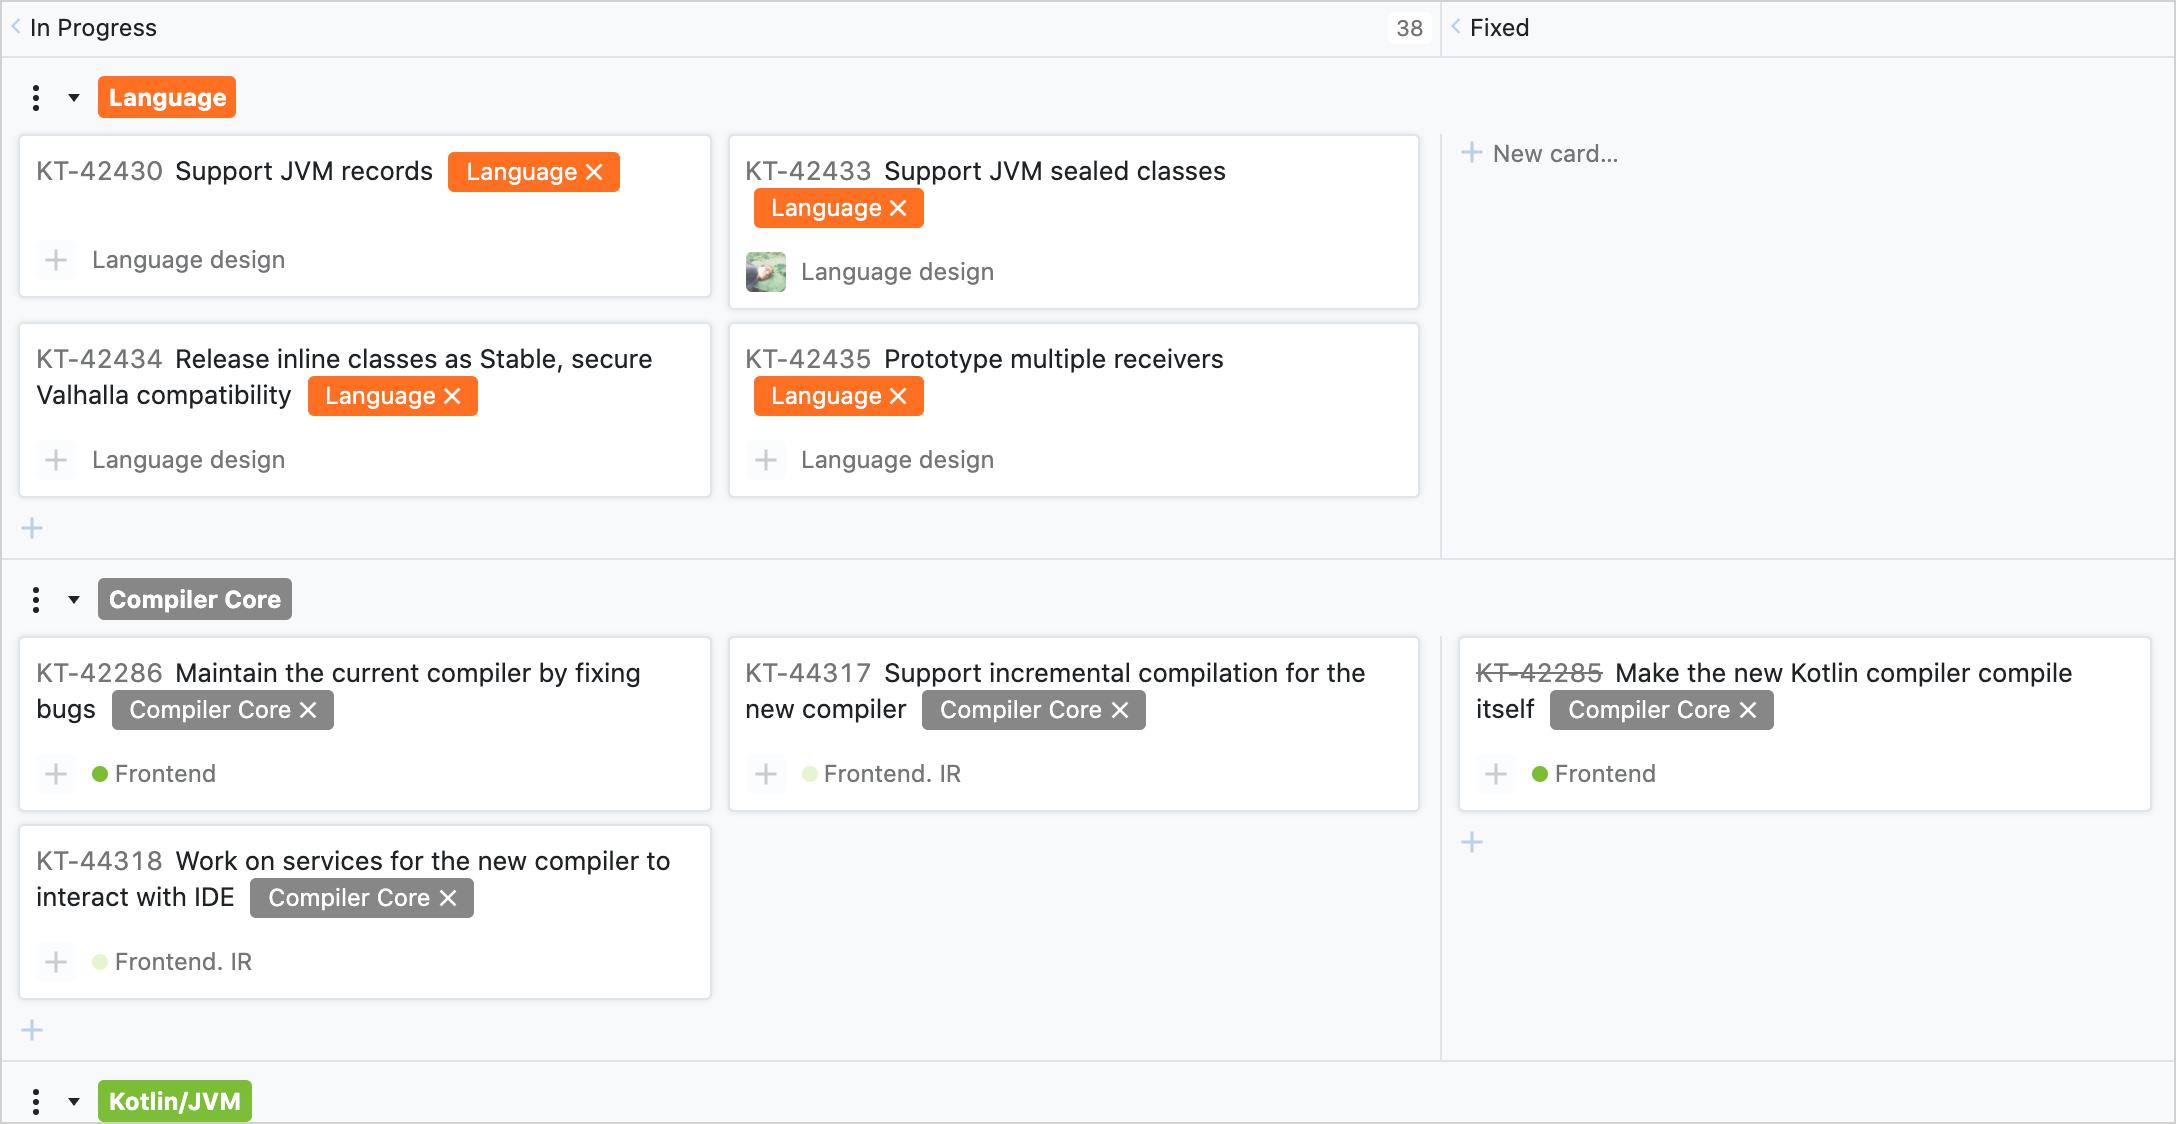
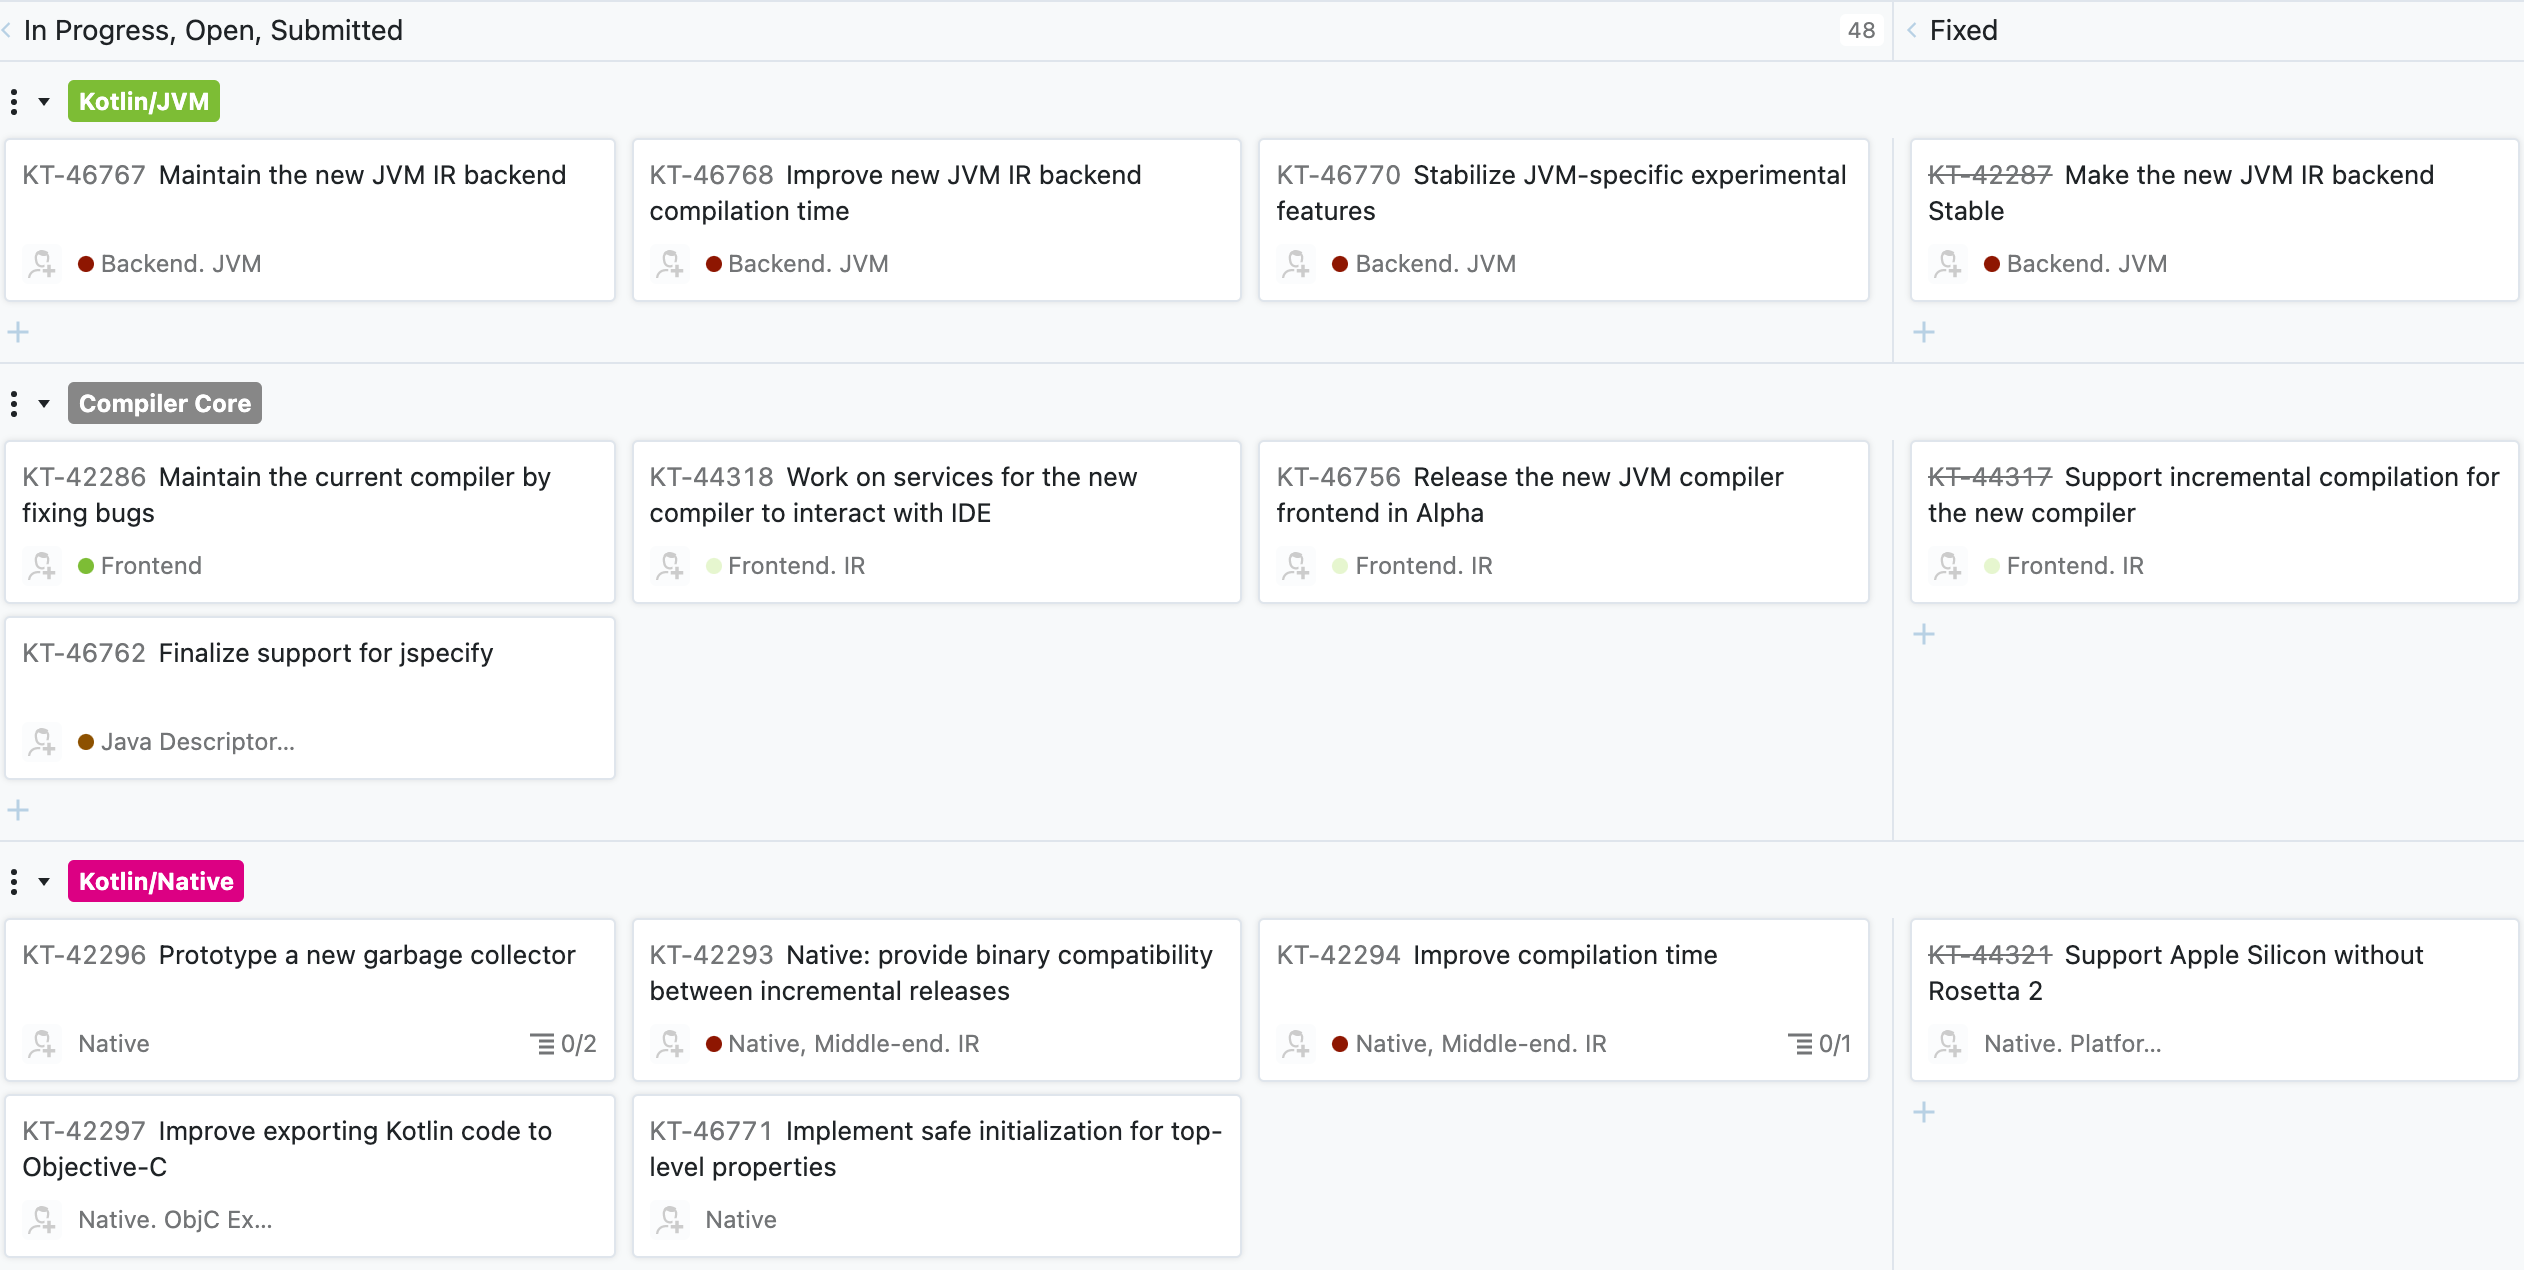
chore: add links new items in YT, update image

diff --git a/docs/topics/roadmap.md b/docs/topics/roadmap.md
@@ -60,7 +60,7 @@ Visit the [roadmap board in our issue tracker ![YouTrack](youtrack-logo.png){wid
         </td>
         <td>
             <ul>
-                <li>⏸ <a href="https://youtrack.jetbrains.com/issue/TODO" target="_blank">Support JVM sealed classes</a></li>
+                <li>⏸ <a href="https://youtrack.jetbrains.com/issue/KT-46778" target="_blank">Support JVM sealed classes</a></li>
             </ul>
         </td>
     </tr>
@@ -68,8 +68,8 @@ Visit the [roadmap board in our issue tracker ![YouTrack](youtrack-logo.png){wid
         <td><strong>Compiler core</strong></td>
         <td>
             <ul>
-                <li><a href="https://youtrack.jetbrains.com/issue/TODO" target="_blank">🆕 Release the new JVM compiler frontend in Alpha</a></li>
-                <li><a href="https://youtrack.jetbrains.com/issue/TODO" target="_blank">🆕 Finalize support for jspecify</a></li>
+                <li><a href="https://youtrack.jetbrains.com/issue/KT-46756" target="_blank">🆕 Release the new JVM compiler frontend in Alpha</a></li>
+                <li><a href="https://youtrack.jetbrains.com/issue/KT-46762" target="_blank">🆕 Finalize support for jspecify</a></li>
                 <li><a href="https://youtrack.jetbrains.com/issue/KT-42286" target="_blank">Maintain the current compiler (bug-fixing only)</a></li>
                 <li><a href="https://youtrack.jetbrains.com/issue/KT-44318" target="_blank">Work on services for the new compiler to interact with IDE</a></li>
             </ul>
@@ -85,9 +85,9 @@ Visit the [roadmap board in our issue tracker ![YouTrack](youtrack-logo.png){wid
         <td><strong>Kotlin/JVM</strong></td>
         <td>
             <ul>
-                <li><a href="https://youtrack.jetbrains.com/issue/TODO" target="_blank">🆕 Maintain the new JVM IR backend</a></li>
-                <li><a href="https://youtrack.jetbrains.com/issue/TODO" target="_blank">🆕 Improve new JVM IR backend compilation time</a></li>
-                <li><a href="https://youtrack.jetbrains.com/issue/TODO" target="_blank">🆕 Stabilize JVM-specific experimental features</a></li>
+                <li><a href="https://youtrack.jetbrains.com/issue/KT-46767" target="_blank">🆕 Maintain the new JVM IR backend</a></li>
+                <li><a href="https://youtrack.jetbrains.com/issue/KT-46768" target="_blank">🆕 Improve new JVM IR backend compilation time</a></li>
+                <li><a href="https://youtrack.jetbrains.com/issue/KT-46770" target="_blank">🆕 Stabilize JVM-specific experimental features</a></li>
             </ul>
          </td>
         <td></td>
@@ -112,7 +112,7 @@ Visit the [roadmap board in our issue tracker ![YouTrack](youtrack-logo.png){wid
         <td><strong>Kotlin/Wasm</strong></td>
         <td>
             <ul>
-                <li><a href="https://youtrack.jetbrains.com/issue/KT-TODO" target="_blank">🆕 Implement an experimental version of Kotlin/Wasm compiler backend</a></li>
+                <li><a href="https://youtrack.jetbrains.com/issue/KT-46773" target="_blank">🆕 Implement an experimental version of Kotlin/Wasm compiler backend</a></li>
             </ul>
          </td>
         <td>Note: Wasm support in <a href="https://kotlinlang.org/docs/reference/native-overview.html" target="_blank">Kotlin/Native</a> (through LLVM) will be deprecated and removed</td>
@@ -121,7 +121,7 @@ Visit the [roadmap board in our issue tracker ![YouTrack](youtrack-logo.png){wid
         <td><strong>Kotlin/Native</strong></td>
         <td>
             <ul>
-                <li><a href="https://youtrack.jetbrains.com/issue/TODO" target="_blank">🆕 Implement safe initialization for top-level properties</a></li>
+                <li><a href="https://youtrack.jetbrains.com/issue/KT-46771" target="_blank">🆕 Implement safe initialization for top-level properties</a></li>
                 <li><a href="https://youtrack.jetbrains.com/issue/KT-42296" target="_blank">Prototype a new garbage collector</a></li>
                 <li><a href="https://youtrack.jetbrains.com/issue/KT-42294" target="_blank">Improve compilation time</a></li>
                 <li><a href="https://youtrack.jetbrains.com/issue/KT-42297" target="_blank">Improve exporting Kotlin code to Objective-C</a></li>
@@ -141,7 +141,7 @@ Visit the [roadmap board in our issue tracker ![YouTrack](youtrack-logo.png){wid
         <td><strong>Kotlin Multiplatform</strong></td>
         <td>
             <ul>
-                <li><a href="https://youtrack.jetbrains.com/issue/TODO" target="_blank">🆕 Support the Apple Silicon target in the Kotlin Multiplatform tooling</a></li>
+                <li><a href="https://youtrack.jetbrains.com/issue/KT-46772" target="_blank">🆕 Support the Apple Silicon target in the Kotlin Multiplatform tooling</a></li>
                 <li><a href="https://youtrack.jetbrains.com/issue/KT-44329" target="_blank">Improve UX of using Native libraries in Kotlin</a></li>
                 <li><a href="https://youtrack.jetbrains.com/issue/KT-42301" target="_blank">Improve dependency management for iOS</a></li>
             </ul>
@@ -161,7 +161,7 @@ Visit the [roadmap board in our issue tracker ![YouTrack](youtrack-logo.png){wid
                 <li><a href="https://youtrack.jetbrains.com/issue/KT-42307" target="_blank">Prototype IDE plugin with the new compiler frontend</a></li>
                 <li><a href="https://youtrack.jetbrains.com/issue/KT-42304" target="_blank">Improve IDE performance</a></li>
                 <li><a href="https://youtrack.jetbrains.com/issue/KT-44330" target="_blank">Improve debugging experience</a></li>
-                <li><a href="https://youtrack.jetbrains.com/issue/TODO" target="_blank">🆕 Improve the New Project wizard</a></li>
+                <li><a href="https://youtrack.jetbrains.com/issue/KT-46787" target="_blank">🆕 Improve the New Project wizard</a></li>
                 <li><a href="https://youtrack.jetbrains.com/issue/KT-42308" target="_blank">Move the Kotlin plugin to the IntelliJ platform development infrastructure</a></li>
             </ul>
          </td>
@@ -178,8 +178,8 @@ Visit the [roadmap board in our issue tracker ![YouTrack](youtrack-logo.png){wid
             <ul>
                 <li><a href="https://youtrack.jetbrains.com/issue/KT-42309" target="_blank">Improve the performance of Gradle incremental compilation</a></li>
                 <li><a href="https://youtrack.jetbrains.com/issue/KT-42311" target="_blank">Decrease time for opening Gradle projects</a></li>
-                <li><a href="https://youtrack.jetbrains.com/issue/TODO" target="_blank">🆕 Improve the quality of Gradle import</a></li>
-                <li><a href="https://youtrack.jetbrains.com/issue/TODO" target="_blank">🆕 Improve user experience with the Kotlin Gradle plugin</a></li>
+                <li><a href="https://youtrack.jetbrains.com/issue/KT-46788" target="_blank">🆕 Improve the quality of Gradle import</a></li>
+                <li><a href="https://youtrack.jetbrains.com/issue/KT-46789" target="_blank">🆕 Improve user experience with the Kotlin Gradle plugin</a></li>
             </ul>
          </td>
         <td>
@@ -192,11 +192,11 @@ Visit the [roadmap board in our issue tracker ![YouTrack](youtrack-logo.png){wid
         <td><strong>Libraries</strong></td>
         <td>
             <ul>
-                <li><a href="https://youtrack.jetbrains.com/issue/TODO" target="_blank">🆕 Improve kotlinx-serialization (release v1.3.0)</a></li>
-                <li><a href="https://youtrack.jetbrains.com/issue/TODO" target="_blank">🆕 Improve kotlinx-coroutines (release v1.6.0)</a></li>
-                <li><a href="https://youtrack.jetbrains.com/issue/TODO" target="_blank">🆕 Stabilize Duration API in the standard library</a></li>
-                <li><a href="https://youtrack.jetbrains.com/issue/TODO" target="_blank">🆕 Get rid of <code>!!</code> for <code>readLine()</code> in the standard library</a></li>
-                <li><a href="https://youtrack.jetbrains.com/issue/TODO" target="_blank">🆕 Stabilize and document atomicfu</a></li>
+                <li><a href="https://youtrack.jetbrains.com/issue/KT-46782" target="_blank">🆕 Improve kotlinx-serialization (release v1.3.0)</a></li>
+                <li><a href="https://youtrack.jetbrains.com/issue/KT-46783" target="_blank">🆕 Improve kotlinx-coroutines (release v1.6.0)</a></li>
+                <li><a href="https://youtrack.jetbrains.com/issue/KT-46784" target="_blank">🆕 Stabilize Duration API in the standard library</a></li>
+                <li><a href="https://youtrack.jetbrains.com/issue/KT-46785" target="_blank">🆕 Get rid of <code>!!</code> for <code>readLine()</code> in the standard library</a></li>
+                <li><a href="https://youtrack.jetbrains.com/issue/KT-46786" target="_blank">🆕 Stabilize and document atomicfu</a></li>
                 <li><a href="https://youtrack.jetbrains.com/issue/KT-42315" target="_blank">Improve kotlinx-datetime library</a></li>
                 <li><a href="https://youtrack.jetbrains.com/issue/KT-42436" target="_blank">Support java.nio.Path extension in the standard library</a></li>
             </ul>
@@ -216,8 +216,8 @@ Visit the [roadmap board in our issue tracker ![YouTrack](youtrack-logo.png){wid
         <td>
             <ul>
                 <li><a href="https://youtrack.jetbrains.com/issue/KT-44339" target="_blank">Make the Kotlin website mobile friendly</a></li>
-                <li><a href="https://youtrack.jetbrains.com/issue/TODO" target="_blank">🆕 Make the UI and navigation consistent</a></li>
-                <li><a href="https://youtrack.jetbrains.com/issue/TODO" target="_blank">🆕 Update community graphic assets to the new Kotlin visual style</a></li>
+                <li><a href="https://youtrack.jetbrains.com/issue/KT-46791" target="_blank">🆕 Make the UI and navigation consistent</a></li>
+                <li><a href="https://youtrack.jetbrains.com/issue/KT-46792" target="_blank">🆕 Update community graphic assets to the new Kotlin visual style</a></li>
                 <li><a href="https://youtrack.jetbrains.com/issue/KT-44338" target="_blank">Revamp Kotlin documentation</a></li>
             </ul>
         </td>
@@ -263,7 +263,7 @@ We've **completed** the following items from the previous roadmap:
 
 We've decided to **postpone** the following items from the previous roadmap:
 
-* ⏸ [Support JVM sealed classes](https://youtrack.jetbrains.com/issue/TODO)
+* ⏸ [Support JVM sealed classes](https://youtrack.jetbrains.com/issue/46778)
 * ⏸ [Improve Kotlin/Native debugging experience](https://youtrack.jetbrains.com/issue/KT-44328)
 
 Other postponed items remain in this state from earlier roadmap versions.
@@ -280,24 +280,24 @@ We've **added** the following items to the roadmap:
 * 🆕 Language: [Allow repeating annotations with runtime retention when compiling under Java 8](https://youtrack.jetbrains.com/issue/KT-12794)
 * 🆕 Language: [Support annotations on class type parameters and generate them for JVM](https://youtrack.jetbrains.com/issue/KT-43714)
 * 🆕 Language: [Improve type inference in corner cases for popular Java APIs](https://youtrack.jetbrains.com/issue/KT-40804)
-* 🆕 Compiler core: [Release the new JVM compiler frontend in Alpha](https://youtrack.jetbrains.com/issue/TODO)
-* 🆕 Compiler core: [Finalize support for jspecify](https://youtrack.jetbrains.com/issue/TODO)
-* 🆕 Kotlin/JVM: [Maintain the new JVM IR backend](https://youtrack.jetbrains.com/issue/TODO)
-* 🆕 Kotlin/JVM: [Improve new JVM IR backend compilation time](https://youtrack.jetbrains.com/issue/TODO)
-* 🆕 Kotlin/JVM: [Stabilize JVM-specific experimental features](https://youtrack.jetbrains.com/issue/TODO)
-* 🆕 Kotlin/Wasm: [Implement an experimental version of Kotlin/Wasm compiler backend](https://youtrack.jetbrains.com/issue/TODO)
-* 🆕 Kotlin/Native: [Implement safe initialization for top-level properties](https://youtrack.jetbrains.com/issue/TODO)
-* 🆕 Multiplatform: [Support the Apple Silicon target in the Kotlin Multiplatform tooling](https://youtrack.jetbrains.com/issue/TODO)
-* 🆕 IDE: [Improve the New Project wizard](https://youtrack.jetbrains.com/issue/TODO)
-* 🆕 Build tools: [Improve the quality of Gradle import](https://youtrack.jetbrains.com/issue/TODO)
-* 🆕 Build tools: [Improve user experience with the Kotlin Gradle plugin](https://youtrack.jetbrains.com/issue/TODO)
-* 🆕 Libraries: [Improve kotlinx-serialization (release v1.3.0)](https://youtrack.jetbrains.com/issue/TODO)
-* 🆕 Libraries: [Improve kotlinx-coroutines (release v1.6.0)](https://youtrack.jetbrains.com/issue/TODO)
-* 🆕 Libraries: [Stabilize Duration API in the standard library](https://youtrack.jetbrains.com/issue/TODO)
-* 🆕 Libraries: [Get rid of <code>!!</code> for <code>readLine()</code> in the standard library](https://youtrack.jetbrains.com/issue/TODO)
-* 🆕 Libraries: [Stabilize and document `atomicfu`](https://youtrack.jetbrains.com/issue/TODO)
-* 🆕 Website: [Make the UI and navigation consistent](https://youtrack.jetbrains.com/issue/TODO)
-* 🆕 Website: [Update community graphic assets to the new Kotlin visual style](https://youtrack.jetbrains.com/issue/TODO)
+* 🆕 Compiler core: [Release the new JVM compiler frontend in Alpha](https://youtrack.jetbrains.com/issue/KT-46756)
+* 🆕 Compiler core: [Finalize support for jspecify](https://youtrack.jetbrains.com/issue/KT-46762)
+* 🆕 Kotlin/JVM: [Maintain the new JVM IR backend](https://youtrack.jetbrains.com/issue/KT-46767)
+* 🆕 Kotlin/JVM: [Improve new JVM IR backend compilation time](https://youtrack.jetbrains.com/issue/KT-46768)
+* 🆕 Kotlin/JVM: [Stabilize JVM-specific experimental features](https://youtrack.jetbrains.com/issue/KT-46770)
+* 🆕 Kotlin/Wasm: [Implement an experimental version of Kotlin/Wasm compiler backend](https://youtrack.jetbrains.com/issue/KT-46773)
+* 🆕 Kotlin/Native: [Implement safe initialization for top-level properties](https://youtrack.jetbrains.com/issue/KT-46771)
+* 🆕 Multiplatform: [Support the Apple Silicon target in the Kotlin Multiplatform tooling](https://youtrack.jetbrains.com/issue/KT-46772)
+* 🆕 IDE: [Improve the New Project wizard](https://youtrack.jetbrains.com/issue/KT-46787)
+* 🆕 Build tools: [Improve the quality of Gradle import](https://youtrack.jetbrains.com/issue/KT-46788)
+* 🆕 Build tools: [Improve user experience with the Kotlin Gradle plugin](https://youtrack.jetbrains.com/issue/KT-46789)
+* 🆕 Libraries: [Improve kotlinx-serialization (release v1.3.0)](https://youtrack.jetbrains.com/issue/KT-46782)
+* 🆕 Libraries: [Improve kotlinx-coroutines (release v1.6.0)](https://youtrack.jetbrains.com/issue/KT-46783)
+* 🆕 Libraries: [Stabilize Duration API in the standard library](https://youtrack.jetbrains.com/issue/KT-46784)
+* 🆕 Libraries: [Get rid of <code>!!</code> for <code>readLine()</code> in the standard library](https://youtrack.jetbrains.com/issue/KT-46785)
+* 🆕 Libraries: [Stabilize and document `atomicfu`](https://youtrack.jetbrains.com/issue/KT-46786)
+* 🆕 Website: [Make the UI and navigation consistent](https://youtrack.jetbrains.com/issue/KT-46791)
+* 🆕 Website: [Update community graphic assets to the new Kotlin visual style](https://youtrack.jetbrains.com/issue/KT-46792)
 
 
 ### Items in progress
